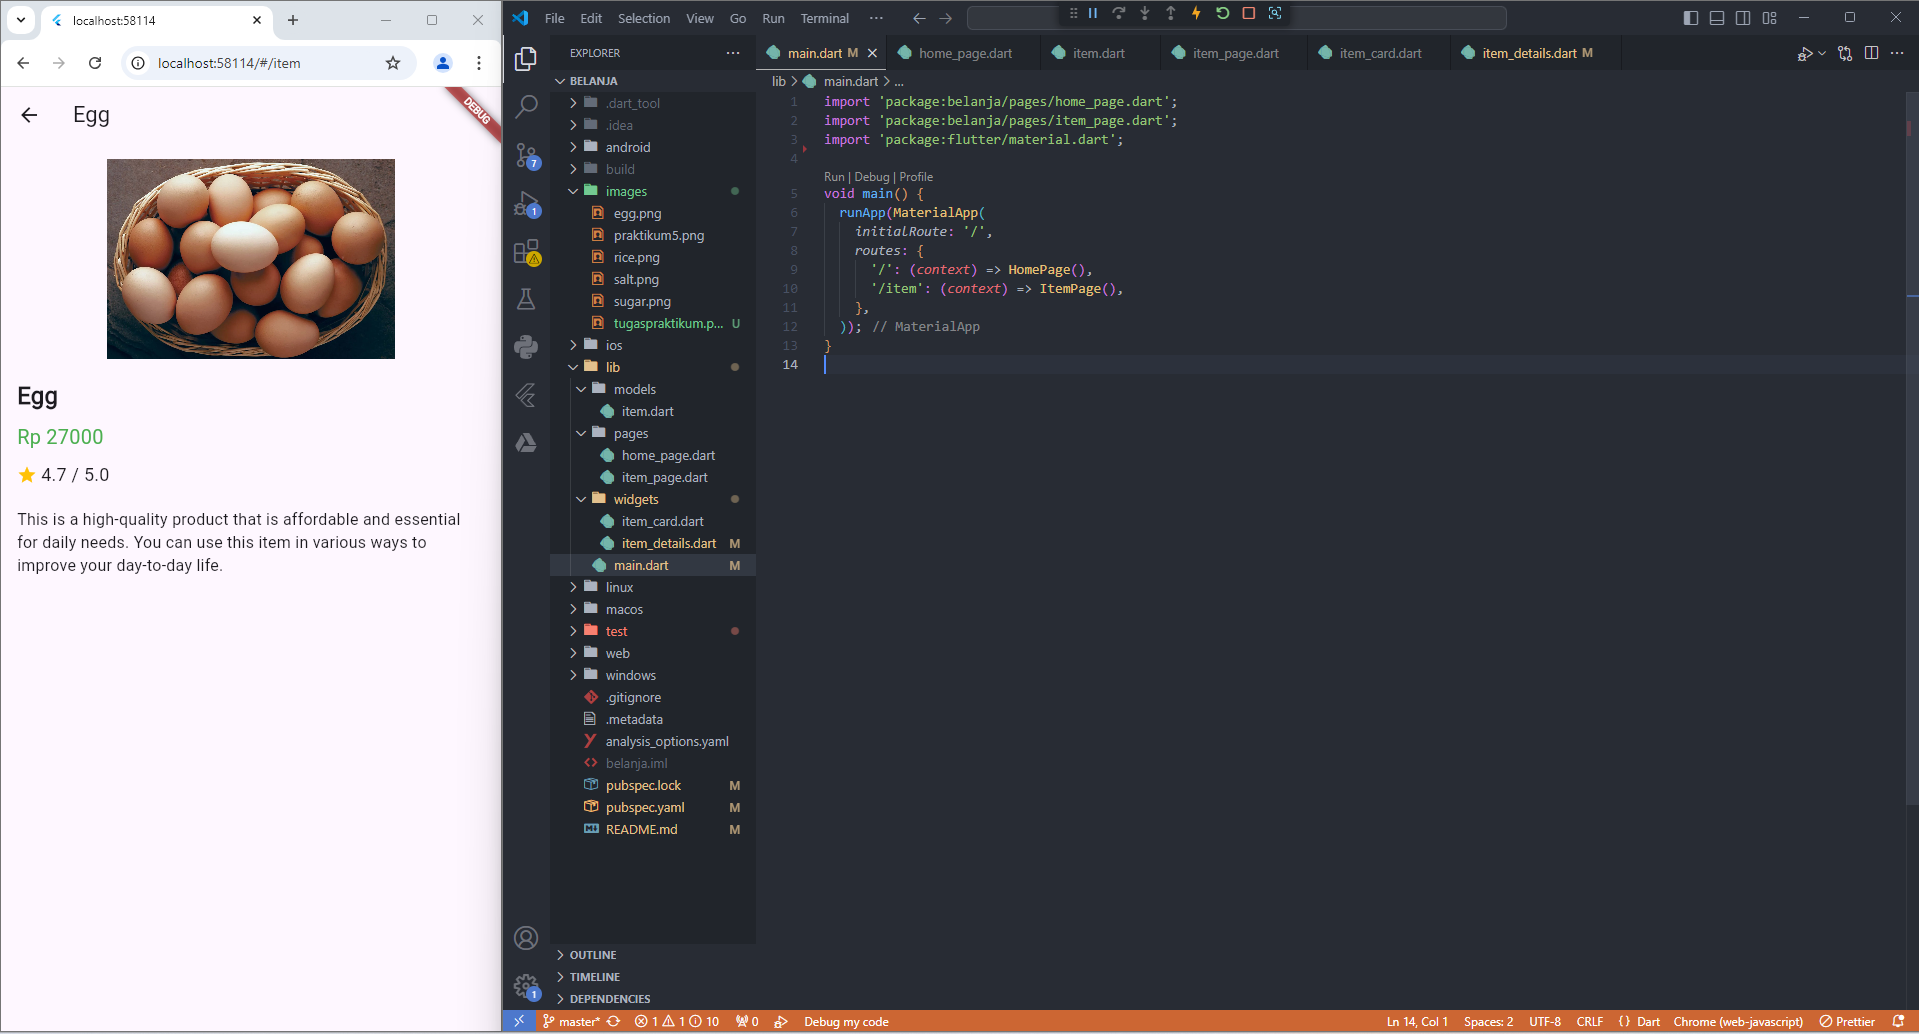
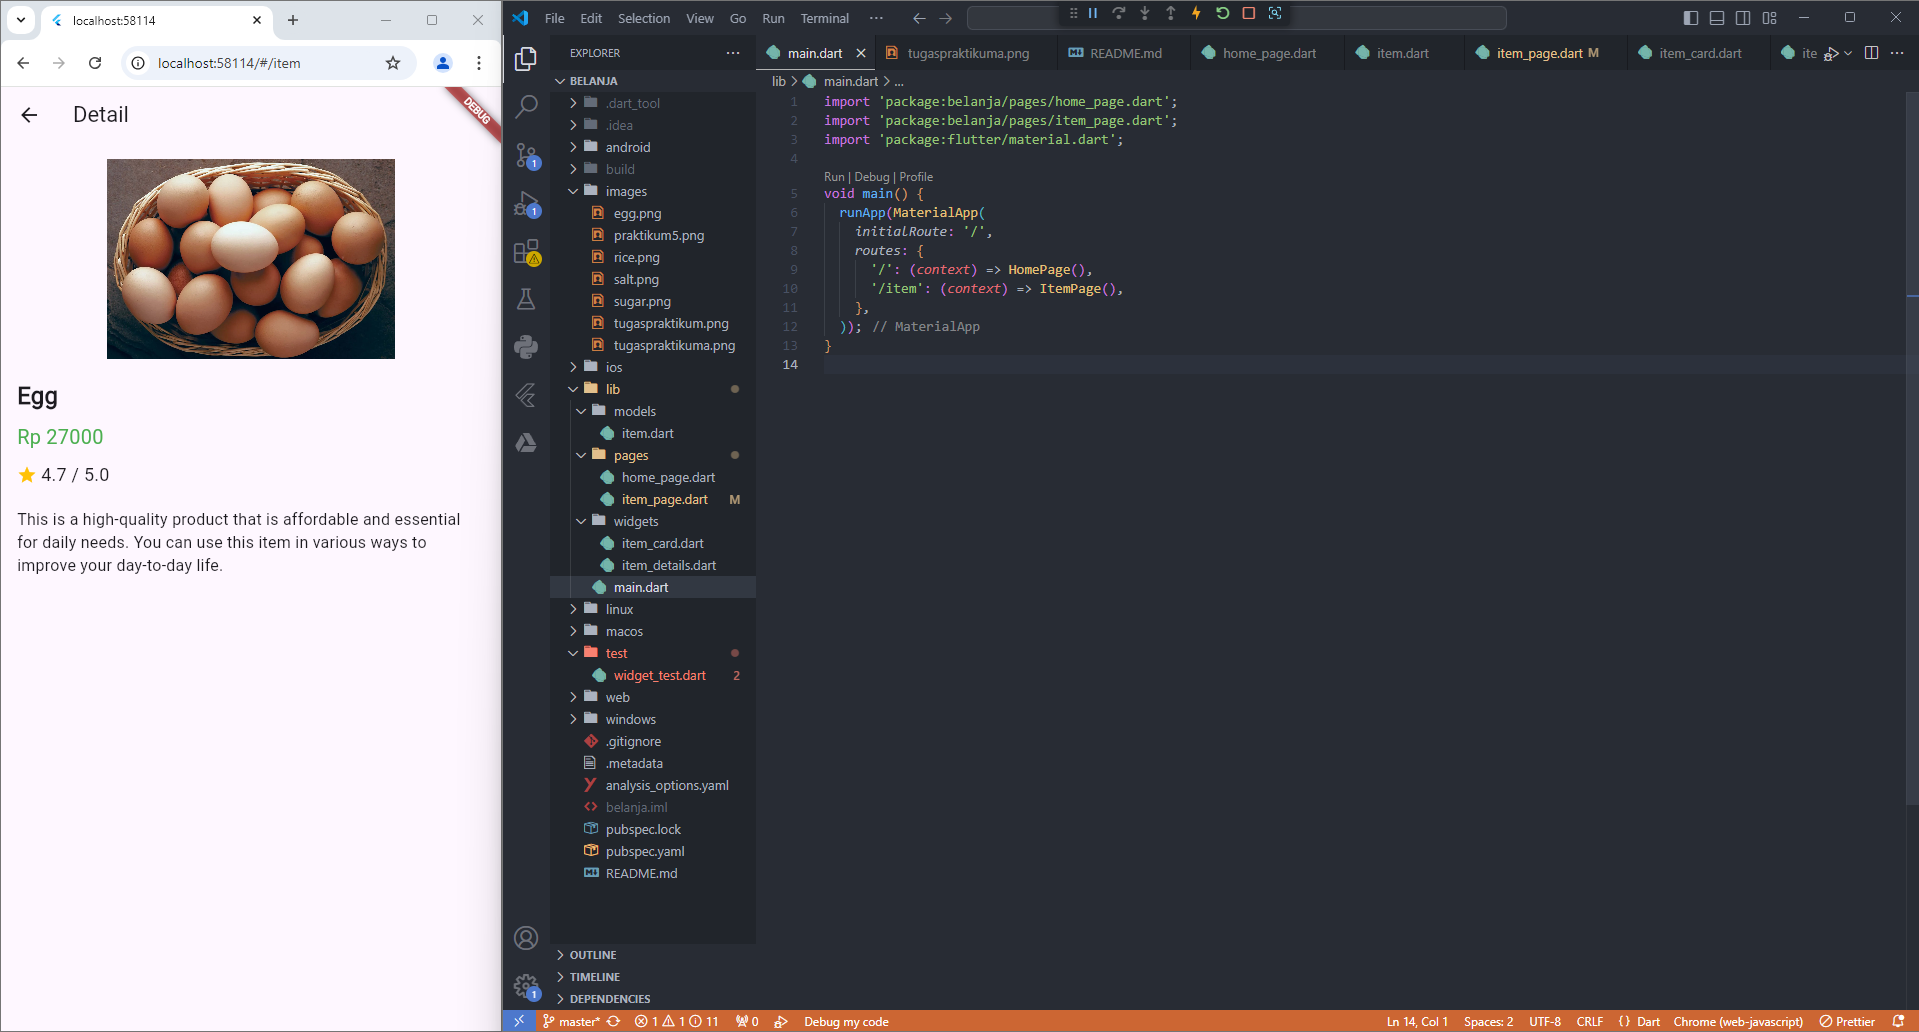
readme

diff --git a/lib/pages/item_page.dart b/lib/pages/item_page.dart
@@ -9,7 +9,7 @@ class ItemPage extends StatelessWidget {
 
     return Scaffold(
       appBar: AppBar(
-        title: Text(itemArgs.name),
+        title: Text('Detail'),
       ),
       body: Padding(
         padding: const EdgeInsets.all(16.0),
